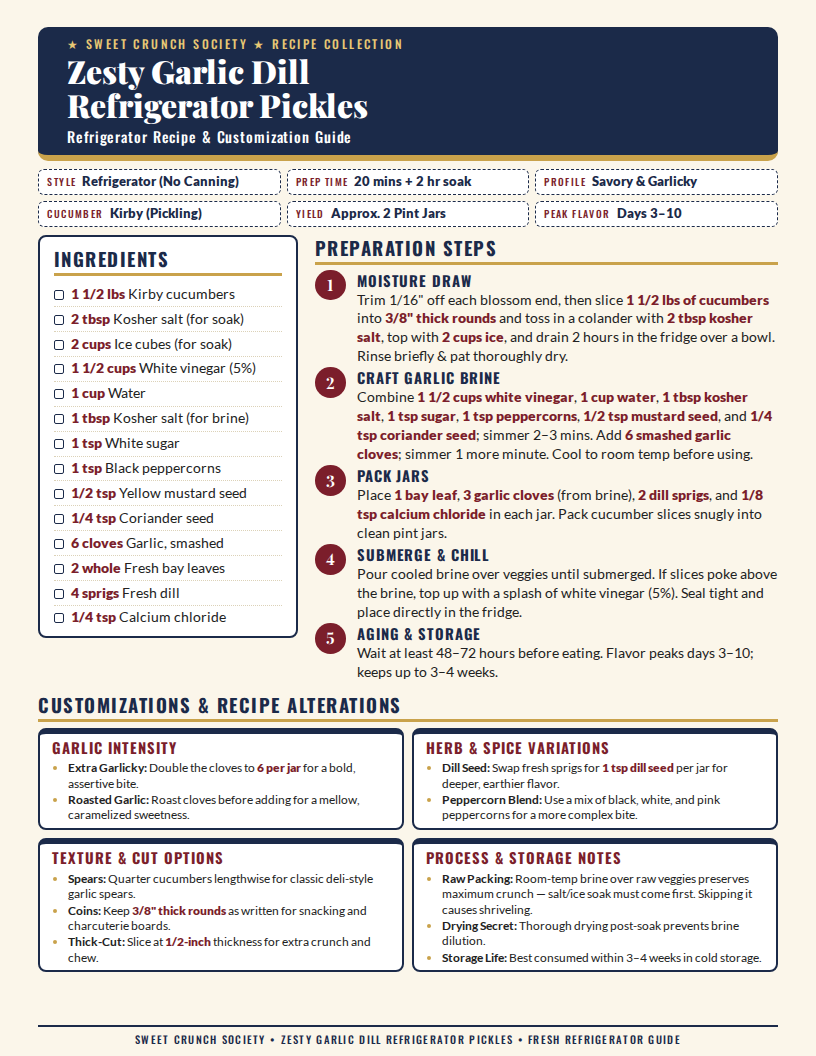
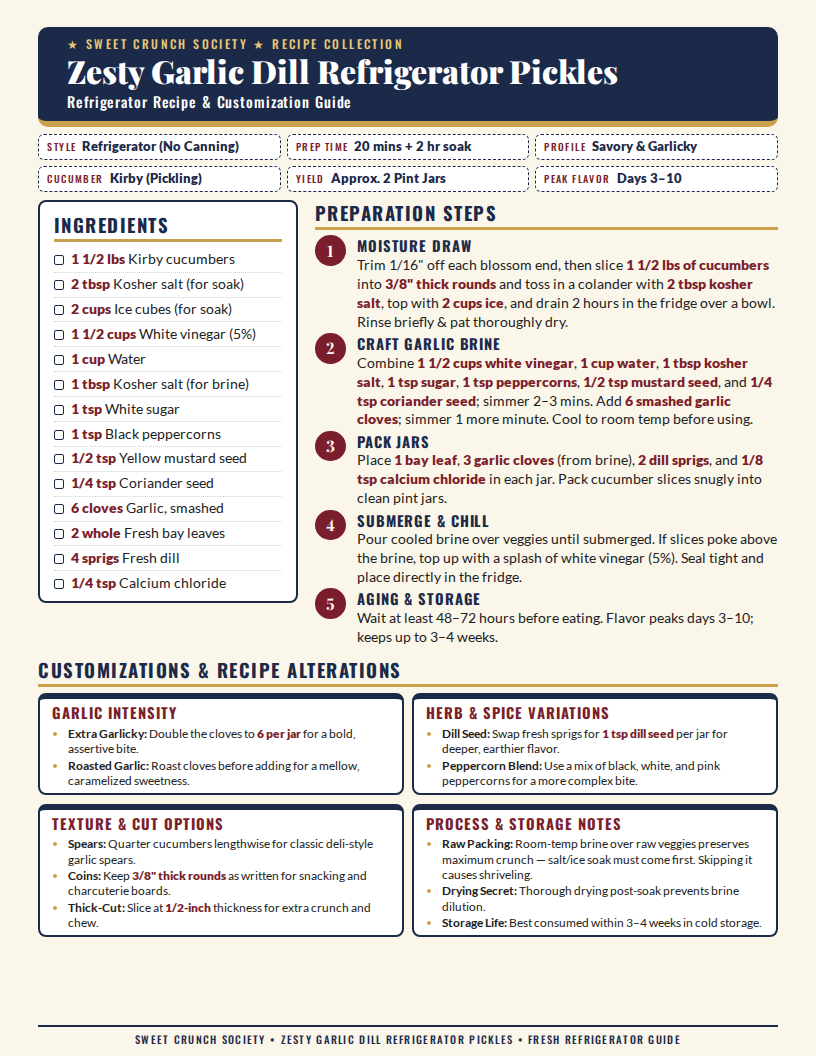
style: fit Zesty Garlic Dill Refrigerator Pickles title on one line
Remove the 4.5in max-width on the header h1 so the title no longer wraps,
matching the Bread & Butter card. The header is ~35px shorter, freeing
space above the footer. Regenerated docs/preview-zesty.png.

Changed region(s): [[0.0306, 0.0625, 0.9498, 0.9375]]

diff --git a/index-zesty.html b/index-zesty.html
@@ -50,7 +50,7 @@
   }
   header h1 {
     font-family: 'Playfair Display', serif; font-weight: 900;
-    font-size: 24pt; line-height: 1.08; margin: 2px 0 4px; max-width: 4.5in;
+    font-size: 24pt; line-height: 1.08; margin: 2px 0 4px;
   }
   header .sub { font-family: 'Oswald', sans-serif; font-size: 11pt; letter-spacing: .06em; font-weight: 500; }
 
